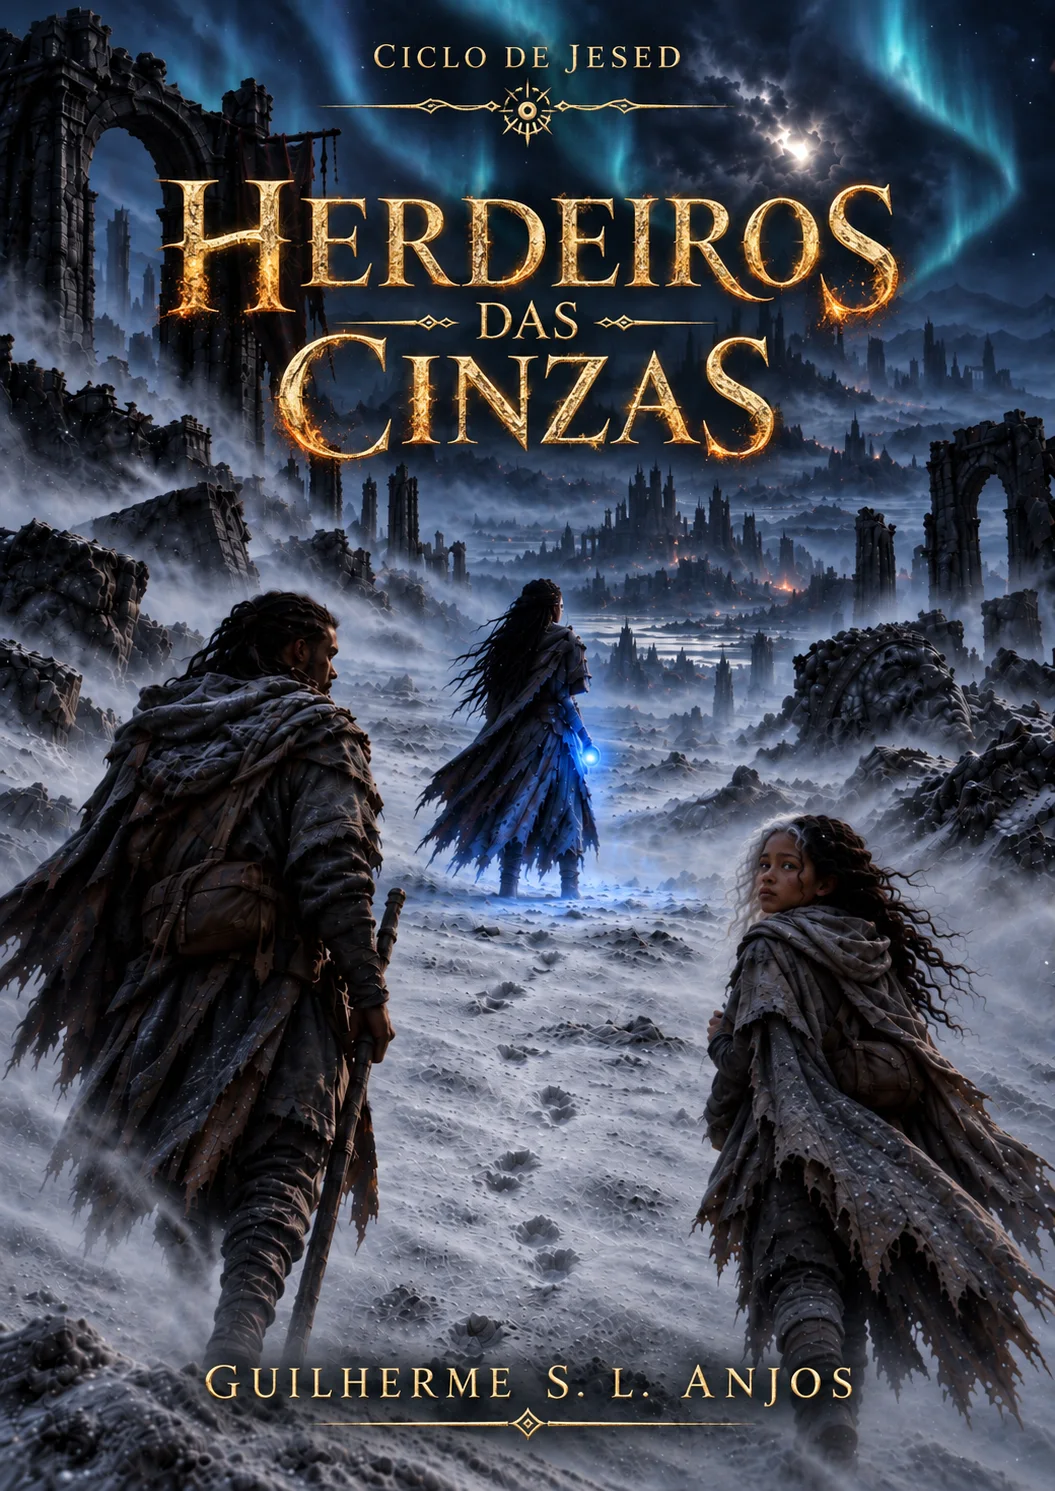
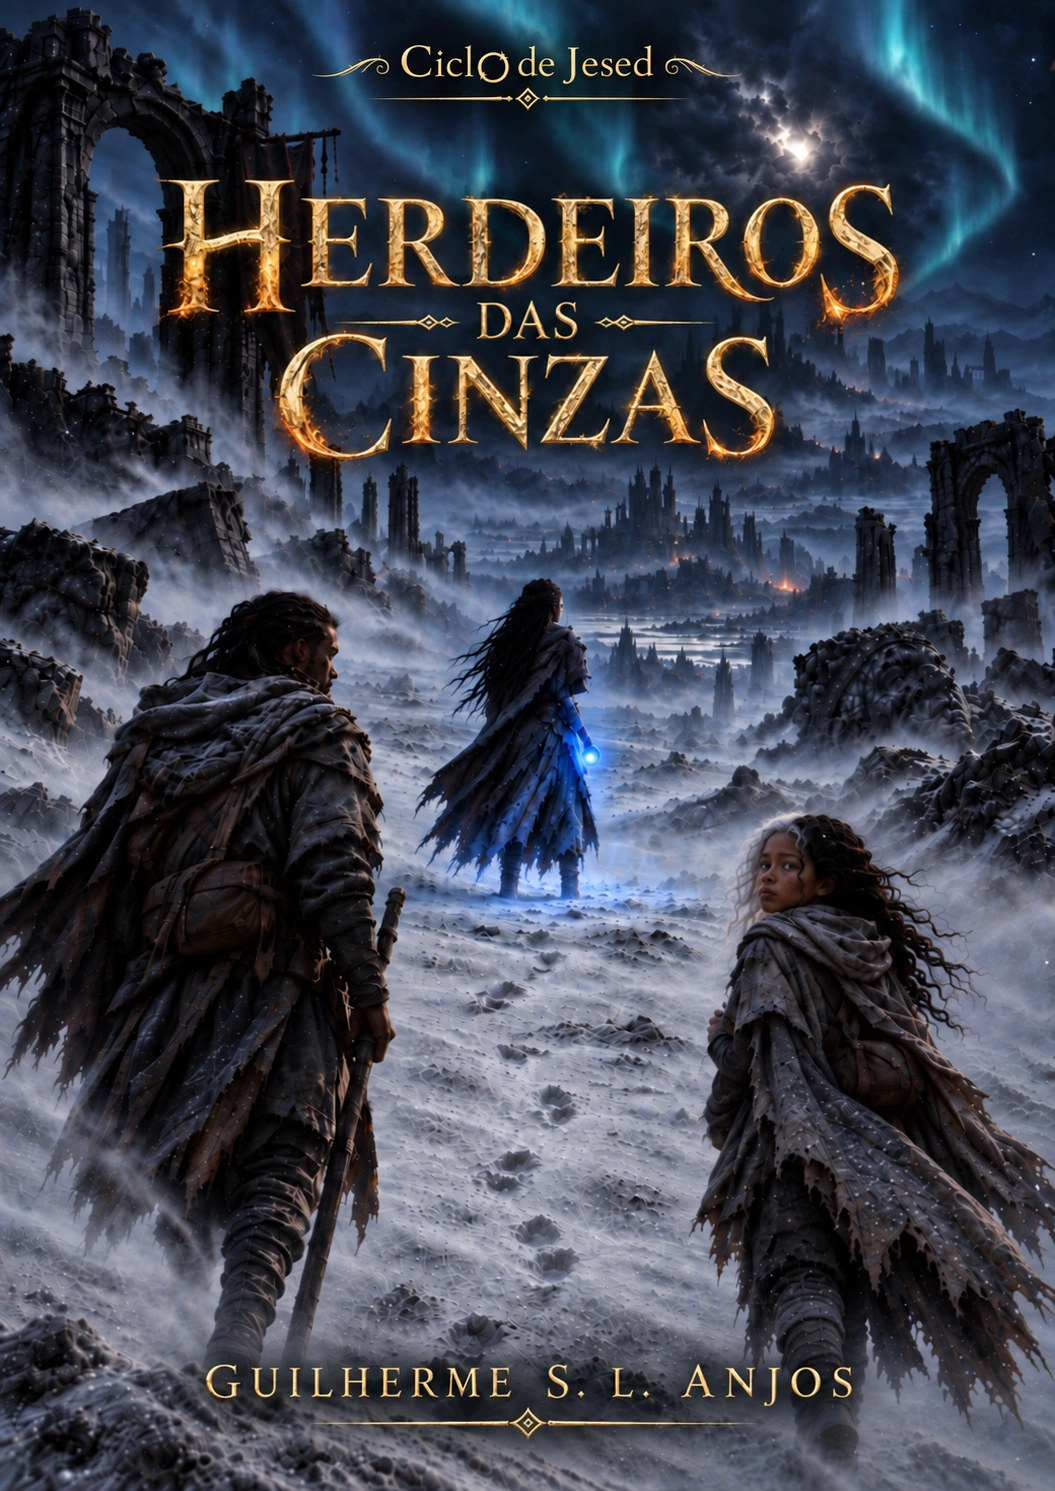
upl

diff --git a/app/sagas/ciclo-de-jesed/books/guerras-de-sangue/app.js b/app/sagas/ciclo-de-jesed/books/guerras-de-sangue/app.js
@@ -361,7 +361,7 @@
       <section class="bookshelf enhanced-bookshelf" aria-label="Livros do Ciclo de Jesed">
         ${D.books.map(book => {
           const active=book.status === "active";
-          const previewable=book.id === "dinastia-polar";
+          const previewable=book.id === "dinastia-polar"||book.id === "herdeiros-das-cinzas";
           const clickable=active||previewable;
           const current=book.id === BOOK_ID;
           const media=bookCoverHtml(book, "book-card-cover");
@@ -377,9 +377,9 @@
     const book = getBook(id) || getBook("guerras-de-sangue");
     const cover = bookCoverHtml(book, "");
     if (book.id !== "guerras-de-sangue") {
-      const externalLinks = { "ruinas-dos-ceus": "ruinas.html", "dinastia-polar": "dinastia-polar.html" };
+      const externalLinks = { "ruinas-dos-ceus": "ruinas.html", "dinastia-polar": "dinastia-polar.html", "herdeiros-das-cinzas": "herdeiros-das-cinzas.html" };
       const bookLogos = { "ruinas-dos-ceus": "assets/branding/ruinas-dos-ceus/logo-light.webp" };
-      const previewable = book.id === "dinastia-polar";
+      const previewable = book.id === "dinastia-polar" || book.id === "herdeiros-das-cinzas";
       const href = externalLinks[book.id];
       const logo = bookLogos[book.id];
       const titleHtml = logo ? `<img class="hero-logo" src="${logo}" alt="${escapeHtml(book.name)}">` : `<h2>${escapeHtml(book.name)}</h2>`;
@@ -1142,8 +1142,8 @@
   function openSelector(type) {
     const books = type === "books";
     const list = books ? D.books : D.sagas;
-    const hrefFor=item=>books?(item.id==="ruinas-dos-ceus"?"ruinas.html#/inicio":item.id==="guerras-de-sangue"?"guerras.html#/dashboard":item.id==="dinastia-polar"?"dinastia-polar.html#/inicio":""):item.id==="ciclo-de-jesed"?"index.html#/books":"";
-    refs.selectorContent.innerHTML = `<div class="section-heading"><div><p class="eyebrow">${books ? "Livro" : "Dimensão"}</p><h2>${books ? "Escolher livro" : "Escolher saga"}</h2></div><button class="icon-button" data-action="close-selector">${icon("close")}</button></div><div class="selector-grid">${list.map(item => {const href=(item.status==="active"||item.id==="dinastia-polar")?hrefFor(item):"";const fallbackImg=books?bookCoverFallback[item.id]:null;const coverOnerror=fallbackImg?`this.onerror=function(){this.hidden=true;this.nextElementSibling.hidden=false};this.src='${fallbackImg}'`:`this.hidden=true;this.nextElementSibling.hidden=false`;const media=item.cover?`<span class="selector-cover"><img src="${escapeHtml(item.cover)}" alt="Capa de ${escapeHtml(item.name)}" onerror="${coverOnerror}"><span class="selector-cover-fallback" hidden>${icon(item.icon||item.symbol)}</span></span>`:`<span class="selector-cover symbol">${icon(item.icon||item.symbol)}</span>`;const inner=`${media}<strong>${escapeHtml(item.name)}</strong><small>${href?"Disponível":"Bloqueado nesta etapa"}</small>`;return href?`<a class="selector-card active" href="${href}">${inner}</a>`:`<button class="selector-card locked" disabled>${inner}</button>`;}).join("")}</div>`;
+    const hrefFor=item=>books?(item.id==="ruinas-dos-ceus"?"ruinas.html#/inicio":item.id==="guerras-de-sangue"?"guerras.html#/dashboard":item.id==="dinastia-polar"?"dinastia-polar.html#/inicio":item.id==="herdeiros-das-cinzas"?"herdeiros-das-cinzas.html#/inicio":""):item.id==="ciclo-de-jesed"?"index.html#/books":"";
+    refs.selectorContent.innerHTML = `<div class="section-heading"><div><p class="eyebrow">${books ? "Livro" : "Dimensão"}</p><h2>${books ? "Escolher livro" : "Escolher saga"}</h2></div><button class="icon-button" data-action="close-selector">${icon("close")}</button></div><div class="selector-grid">${list.map(item => {const href=(item.status==="active"||item.id==="dinastia-polar"||item.id==="herdeiros-das-cinzas")?hrefFor(item):"";const fallbackImg=books?bookCoverFallback[item.id]:null;const coverOnerror=fallbackImg?`this.onerror=function(){this.hidden=true;this.nextElementSibling.hidden=false};this.src='${fallbackImg}'`:`this.hidden=true;this.nextElementSibling.hidden=false`;const media=item.cover?`<span class="selector-cover"><img src="${escapeHtml(item.cover)}" alt="Capa de ${escapeHtml(item.name)}" onerror="${coverOnerror}"><span class="selector-cover-fallback" hidden>${icon(item.icon||item.symbol)}</span></span>`:`<span class="selector-cover symbol">${icon(item.icon||item.symbol)}</span>`;const inner=`${media}<strong>${escapeHtml(item.name)}</strong><small>${href?(item.id==="herdeiros-das-cinzas"?"Em preparação":"Disponível"):"Bloqueado nesta etapa"}</small>`;return href?`<a class="selector-card active" href="${href}">${inner}</a>`:`<button class="selector-card locked" disabled>${inner}</button>`;}).join("")}</div>`;
     refs.selectorModal.classList.add("open");
     refs.selectorModal.setAttribute("aria-hidden", "false");
   }

diff --git a/app/sagas/ciclo-de-jesed/books/coracao-de-poeira/app.js b/app/sagas/ciclo-de-jesed/books/coracao-de-poeira/app.js
@@ -124,10 +124,10 @@
       <div class="bookshelf" style="display:grid;grid-template-columns:repeat(auto-fill,minmax(260px,1fr));gap:16px;margin-top:24px">
         ${books.map(b => {
           const active = b.status === "active";
-          const previewable = b.id === BOOK_ID;
+          const previewable = b.id === BOOK_ID || b.id === "herdeiros-das-cinzas";
           const clickable = active || previewable;
           const current = b.id === BOOK_ID;
-          const hrefs = {"ruinas-dos-ceus":"ruinas.html#/inicio","guerras-de-sangue":"guerras.html#/dashboard","dinastia-polar":"dinastia-polar.html#/inicio"};
+          const hrefs = {"ruinas-dos-ceus":"ruinas.html#/inicio","guerras-de-sangue":"guerras.html#/dashboard","dinastia-polar":"dinastia-polar.html#/inicio","herdeiros-das-cinzas":"herdeiros-das-cinzas.html#/inicio"};
           const href = !current ? hrefs[b.id] : null;
           return `<article class="card ${clickable?"active":"locked"} ${current?"current":""}" style="padding:0;overflow:hidden;${!clickable?"opacity:.55;filter:saturate(.4)":""}">
             <div style="aspect-ratio:2/1;background:linear-gradient(135deg,${(b.palette||["#333","#555","#888"]).join(",")});display:flex;align-items:center;justify-content:center">${b.cover?`<img src="${escapeHtml(b.cover)}" alt="" style="width:100%;height:100%;object-fit:cover">`:"✦"}</div>
@@ -172,8 +172,8 @@
     if(type==="books"){
       const books=D?.books||[];
       content.innerHTML=`<p class="eyebrow" style="margin:0 0 16px">Ciclo de Jesed</p><h2 style="margin:0 0 20px;color:var(--di-heading)">Cinco livros</h2><div style="display:grid;gap:10px">${books.map(b=>{
-        const active=b.status==="active",previewable=b.id===BOOK_ID,current=b.id===BOOK_ID;
-        const hrefs={"ruinas-dos-ceus":"ruinas.html#/inicio","guerras-de-sangue":"guerras.html#/dashboard","dinastia-polar":"dinastia-polar.html#/inicio"};
+        const active=b.status==="active",previewable=b.id===BOOK_ID||b.id==="herdeiros-das-cinzas",current=b.id===BOOK_ID;
+        const hrefs={"ruinas-dos-ceus":"ruinas.html#/inicio","guerras-de-sangue":"guerras.html#/dashboard","dinastia-polar":"dinastia-polar.html#/inicio","herdeiros-das-cinzas":"herdeiros-das-cinzas.html#/inicio"};
         const href=current?null:hrefs[b.id],clickable=(active||previewable)&&href;
         return `<${clickable?`a href="${escapeHtml(href)}"`:` div`} class="selector-card ${current?"active":clickable?"":"locked"}" style="display:flex;align-items:center;gap:14px;padding:14px 16px;border-radius:12px;border:1px solid var(--di-border);text-decoration:none;color:inherit;${!clickable&&!current?"opacity:.5":""}"><span style="width:36px;height:36px;border-radius:8px;background:linear-gradient(135deg,${(b.palette||["#333","#555"]).slice(0,2).join(",")});flex:0 0 36px"></span><div><strong style="color:var(--di-heading);font-size:.9rem">${escapeHtml(b.name)}</strong><br><small style="color:var(--di-muted);font-size:.76rem">Livro ${b.order} · ${current?"Você está aqui":active?"Disponível":previewable?"Em preparação":"Bloqueado"}</small></div>${current?`<span style="margin-left:auto;font-size:.72rem;color:var(--di-accent)">● Aqui</span>`:""}</${clickable?"a":"div"}>`;
       }).join("")}</div>`;

diff --git a/app/portal/app.js b/app/portal/app.js
@@ -38,7 +38,7 @@
       const cover = b.cover ? `<img class="portal-book-cover" src="${escapeHtml(b.cover)}" alt="Capa de ${escapeHtml(b.name)}" loading="lazy">` : `<div class="portal-book-cover portal-cover-placeholder">${icons[b.icon] || '✦'}</div>`;
       const stateLabel = href ? (b.status === 'active' ? 'Abrir livro' : 'Em preparação') : 'Em preparação';
       const inner = `${cover}<div class="portal-book-overlay"></div><div class="portal-book-copy"><span>Livro ${b.order}</span><h3>${escapeHtml(b.name)}</h3><p>${escapeHtml(b.teaser || b.synopsis || b.visual)}</p><strong class="dim-state">${stateLabel}</strong></div>`;
-      return href ? `<a class="dim-card book-dim-card active" href="${href}#/${b.id === 'ruinas-dos-ceus' ? 'inicio' : 'dashboard'}">${inner}</a>` : `<article class="dim-card book-dim-card locked" aria-disabled="true">${inner}</article>`;
+      return href ? `<a class="dim-card book-dim-card active" href="${href}#/${b.id === 'guerras-de-sangue' ? 'dashboard' : 'inicio'}">${inner}</a>` : `<article class="dim-card book-dim-card locked" aria-disabled="true">${inner}</article>`;
     }).join('');
   }
 
@@ -48,7 +48,7 @@
     const href = externalPages[b.id];
     const logo = bookLogos[b.id];
     const titleHtml = logo ? `<img class="detail-logo" src="${escapeHtml(logo)}" alt="${escapeHtml(b.name)}" onerror="this.hidden=true;this.nextElementSibling.hidden=false"><h2 class="section-title detail-logo-fallback" hidden>${escapeHtml(b.name)}</h2>` : `<h2 class="section-title">${escapeHtml(b.name)}</h2>`;
-    detailView.innerHTML = `<button class="back-link" data-back="books">← Voltar</button><div class="detail-card">${b.cover ? `<img class="detail-cover" src="${escapeHtml(b.cover)}" alt="Capa de ${escapeHtml(b.name)}">` : ''}<p class="kicker">Livro ${b.order} · Ciclo de Jesed</p>${titleHtml}<div class="subtitle book-full-synopsis">${synopsisHtml(b.synopsis || b.visual)}</div>${href ? `<a class="go-button" href="${href}#/${b.id === 'ruinas-dos-ceus' ? 'inicio' : 'dashboard'}">Ir para a página do livro</a>` : '<p class="subtitle">Ainda em preparação.</p>'}</div>`;
+    detailView.innerHTML = `<button class="back-link" data-back="books">← Voltar</button><div class="detail-card">${b.cover ? `<img class="detail-cover" src="${escapeHtml(b.cover)}" alt="Capa de ${escapeHtml(b.name)}">` : ''}<p class="kicker">Livro ${b.order} · Ciclo de Jesed</p>${titleHtml}<div class="subtitle book-full-synopsis">${synopsisHtml(b.synopsis || b.visual)}</div>${href ? `<a class="go-button" href="${href}#/${b.id === 'guerras-de-sangue' ? 'dashboard' : 'inicio'}">Ir para a página do livro</a>` : '<p class="subtitle">Ainda em preparação.</p>'}</div>`;
   }
 
   function route() {

diff --git a/app/sagas/ciclo-de-jesed/books/ruinas-dos-ceus/events.js b/app/sagas/ciclo-de-jesed/books/ruinas-dos-ceus/events.js
@@ -1,7 +1,7 @@
 (()=>{const R=window.RS,{D,E,S,st,LORE,SAGAS,BOOKS,$,go,BOOK_COVER_FALLBACK}=R;
 function selectorCardHtml(item, books){
-  const active=item.status==='active'||item.id==='dinastia-polar';
-  const href=books?(item.id==='ruinas-dos-ceus'?'ruinas.html#/inicio':item.id==='guerras-de-sangue'?'guerras.html#/dashboard':item.id==='dinastia-polar'?'dinastia-polar.html#/inicio':''):item.id==='ciclo-de-jesed'?'index.html#/books':'';
+  const active=item.status==='active'||item.id==='dinastia-polar'||item.id==='herdeiros-das-cinzas';
+  const href=books?(item.id==='ruinas-dos-ceus'?'ruinas.html#/inicio':item.id==='guerras-de-sangue'?'guerras.html#/dashboard':item.id==='dinastia-polar'?'dinastia-polar.html#/inicio':item.id==='herdeiros-das-cinzas'?'herdeiros-das-cinzas.html#/inicio':''):item.id==='ciclo-de-jesed'?'index.html#/books':'';
   const coverUrl=books?(item.cover||BOOK_COVER_FALLBACK[item.id]):null;
   const media=books?(coverUrl?`<span class="selector-cover"><img src="${E(coverUrl)}" alt="Capa de ${E(item.name)}" onerror="this.hidden=true;this.nextElementSibling.hidden=false"><span class="selector-cover-fallback" hidden>✦</span></span>`:`<span class="selector-cover symbol">✦</span>`):'';
   const inner=`${media}<strong>${E(item.name)}</strong><small>${active&&href?(item.status==='active'?'Disponível':'Em preparação'):'Bloqueado nesta etapa'}</small>`;

diff --git a/app/sagas/ciclo-de-jesed/books/ruinas-dos-ceus/pages/main.js b/app/sagas/ciclo-de-jesed/books/ruinas-dos-ceus/pages/main.js
@@ -3,7 +3,7 @@ function synopsisHtml(value){return String(value||'').split(/\n\s*\n/).filter(Bo
 function livros(){
   return H('Ciclo de Jesed','Os cinco livros','Clique num livro para ver os detalhes.')+`<div class="bookshelf">${BOOKS.map(b=>{
     const active=b.status==='active';
-    const previewable=b.id==='dinastia-polar';
+    const previewable=b.id==='dinastia-polar'||b.id==='herdeiros-das-cinzas';
     const clickable=active||previewable;
     const current=b.id==='ruinas-dos-ceus';
     const coverUrl=b.cover||BOOK_COVER_FALLBACK[b.id];
@@ -18,9 +18,9 @@ function livro(id){
   const b=BOOKS.find(x=>x.id===id);
   if(!b) return err();
   const current=b.id==='ruinas-dos-ceus';
-  const externalLinks={'guerras-de-sangue':'guerras.html','dinastia-polar':'dinastia-polar.html'};
+  const externalLinks={'guerras-de-sangue':'guerras.html','dinastia-polar':'dinastia-polar.html','herdeiros-das-cinzas':'herdeiros-das-cinzas.html'};
   const bookLogos={'guerras-de-sangue':'assets/branding/guerras-de-sangue/logo-light.webp'};
-  const previewable=b.id==='dinastia-polar';
+  const previewable=b.id==='dinastia-polar'||b.id==='herdeiros-das-cinzas';
   const href=!current?externalLinks[b.id]:null;
   const logo=bookLogos[b.id];
   const titleHtml=logo?`<img class="hero-logo" src="${E(logo)}" alt="${E(b.name)}">`:`<h1>${E(b.name)}</h1>`;

diff --git a/app/sagas/ciclo-de-jesed/books/dinastia-polar/app.js b/app/sagas/ciclo-de-jesed/books/dinastia-polar/app.js
@@ -326,7 +326,7 @@
       ${pageHeader("Ciclo de Jesed", "Os cinco livros", "Abra um livro para ver os detalhes, ou consulte os volumes ainda em preparação.")}
       <section class="bookshelf enhanced-bookshelf" aria-label="Livros do Ciclo de Jesed">
         ${D.books.map(book => {
-          const active = book.status === "active" || book.id === BOOK_ID;
+          const active = book.status === "active" || book.id === BOOK_ID || book.id === "herdeiros-das-cinzas";
           const current = book.id === BOOK_ID;
           const media = bookCoverHtml(book, "book-card-cover");
           const inner = `<div class="book-card-cover-frame">${media}<span class="book-number readable-book-number">Livro ${book.order}</span></div><div class="book-card-copy"><h2>${escapeHtml(book.name)}</h2><p>${escapeHtml(book.teaser || book.visual)}</p></div><div class="book-status"><span>${current ? "Em preparação" : (book.status === "active" ? "Livro concluído" : "Em preparação")}</span><span>${current ? "Você está aqui" : (active ? "Ver detalhes" : "Bloqueado")}</span></div>`;
